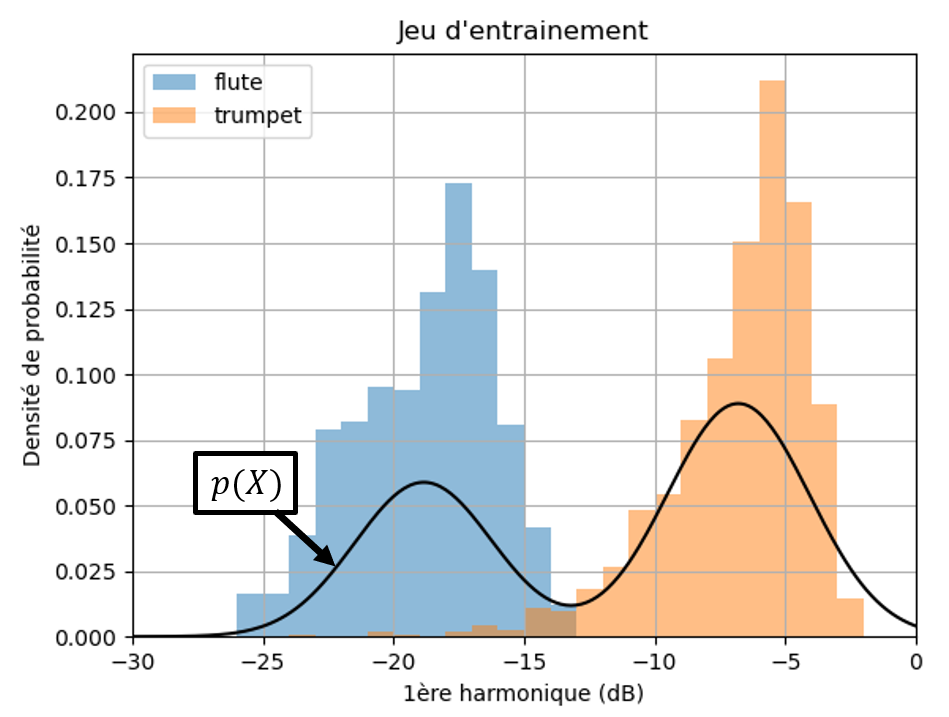
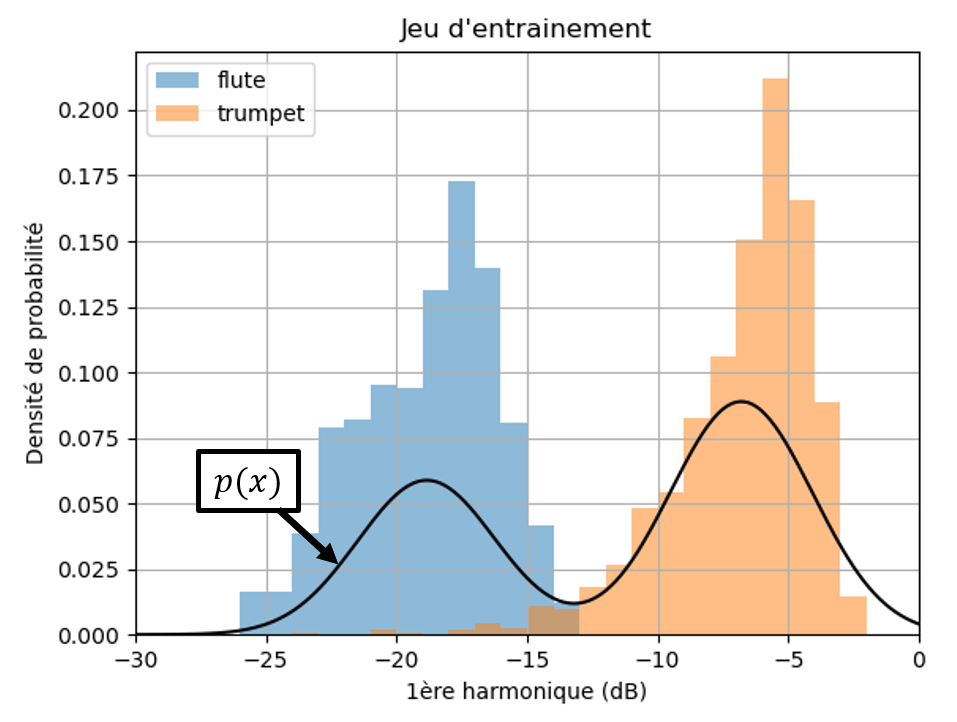
-Progress on Chapter 2.

diff --git a/docs/Chap2_Classification_supervisee.md b/docs/Chap2_Classification_supervisee.md
@@ -125,6 +125,7 @@ Mettons que nous avons accès à une feature d'intérêt pour cette classificati
 On notera $X$ l'espace des **observations** associé.
 
 Pour déterminer la classe d'un individu, on peut alors partir du principe suivant : choisir le $C_i$ tel que $p(C_i \mid x)$ **soit maximal**.
+Nous expliquerons pourquoi dans la suite.
 
 On nomme $p(C_i \mid x)$ "**probabilités a posteriori**".
 
@@ -150,6 +151,40 @@ On cherchera juste le modèle permettant de minimiser les erreurs de classificat
 Ce principe est **généralisable** aux cas de classifications avec $m$ features d'espaces de probabilité $X_1$, $X_2$, ... $X_m$.
 On cherchera la classe $C_i$ qui maximise $p(C_i) \prod_{j=1}^{m}p(x_j \mid C_i)$.
 
+#### Frontière de décision et erreur
+
+Comme nous l'avons expliqué précédemment, sauf cas particulier, on ne peut pas obtenir un classifieur parfait.
+
+On va donc essayer d'établir des **frontières de décision** entre les classes : des intervalles de $x$ pour lesquels on attribura une classe.
+Et nous recherchons même les frontières de décision optimales : celles qui minimisent le risque d'erreurs.
+
+Prenons un cas simple de classification binaire entre 2 classes $C_1$ et $C_2$.
+Nous noterons $x = D$ la frontière de décision choisie.
+
+On a alors 2 types d'erreurs de classification possibles : 
+
+* Classifier l'individu en $C_1$ alors qu'il appartient à $C_2$.
+
+* Classifier l'individu en $C_2$ alors qu'il appartient à $C_1$.
+
+Les probabilités d'erreurs associées sont $$ et $$.
+
+Elles correspondent aux aires représentées sur ce schéma : 
+
+![Erreur décision Bayesienne](img/Chap2_erreur_decision_bayesienne.png)
+
+Pour obtenir la frontière de décision optimale $x = O$, on va chercher à minimiser la somme de ces erreurs.
+
+L'aire entourée en vert correspond à ce que l'on appelle "l'**erreur réductible**" : c'est la portion de l'erreur totale que l'on peut réduire pour obtenir la frontière optimale.
+
+On retrouve bien que :
+
+* Si $p(C_1 \mid x) > p(C_2 \mid x)$ alors on classifie l'individu comme appartenant à $C_1$.
+
+* Si $p(C_1 \mid x) < p(C_2 \mid x)$ alors on classifie l'individu comme appartenant à $C_2$.
+
+On peut généraliser à $q$ classes : comme dit précédemment, pour obtenir les frontières de décision optimales, on choisi le $C_i$ tel que $p(C_i \mid x)$ **soit maximal**.
+
 #### Choix du modèle
 
 Comme nous l'avons expliqué, la décision Bayesienne nécessite un modèle des probabilités conditionnelles d'observation $p(x \mid C_i)$ pour chaque classe $C_i$.
@@ -173,7 +208,13 @@ C'est elle que nous allons détailler.
 
 #### Maximum de vraisemblance
 
-#### Implémentation Scikit-Learn
+
+
+#### Implémentation Scipy
+
+~~~
+from scipy.stats import norm
+~~~
 
 #### Application à notre exemple
 
